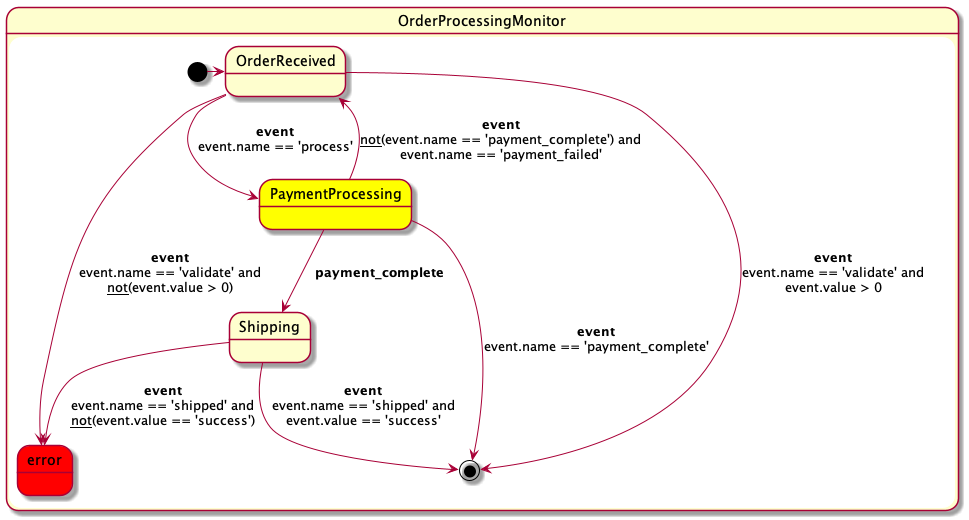
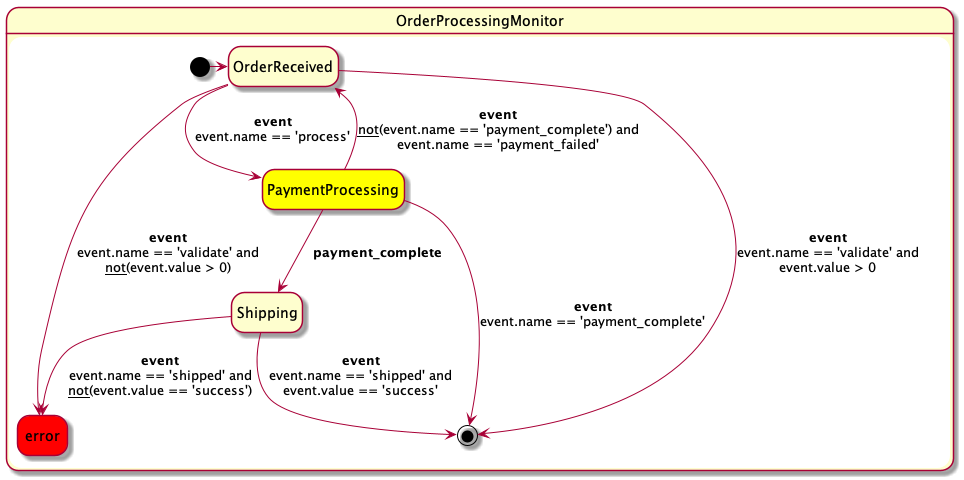
more visualization

diff --git a/pycontract/pycontract_plantuml.py b/pycontract/pycontract_plantuml.py
@@ -357,6 +357,7 @@ class AstStateKind(Enum):
     ERROR = 7
     FORK = 8  # Used for AndState
     OR_FORK = 9  # Used for OrState
+    NOT_STATE = 10  # Used for NotState
 
 
 class AstState:
@@ -381,10 +382,7 @@ class AstState:
             result += f'  [*] -> {self.name}\n'
         
         # Basic state definition
-        if self.kind == AstStateKind.NEXT or self.kind == AstStateKind.HOTNEXT or self.kind == AstStateKind.ALWAYSNEXT:
-            result += f'  state "{self.name} **next**" as {self.name}'
-        else:
-            result += f'  state {self.name}'
+        result += f'  state {self.name}'
         
         # Add styling
         if self.kind == AstStateKind.HOT or self.kind == AstStateKind.HOTNEXT:
@@ -400,6 +398,11 @@ class AstState:
             # Use standard UML choice symbol for OrState
             result += ' <<choice>>'
             # No color specified to keep it default (likely black)
+        if self.kind == AstStateKind.NOT_STATE:
+            # Use a simple circle for NotState
+            result += ' <<circle>>'
+            # Use black background
+            result += ' #black'
         
         # Add parameters
         if self.parameters:
@@ -498,14 +501,23 @@ class AstMonitor:
         self.transitions: List[AstTransition] = []
 
     def __str__(self):
+        # Default diagram generation
         result = '@startuml\n'
         # result += '!theme plain\n'
+        
+        # Add directives to improve the appearance of states
+        result += 'hide empty description\n'  # Remove horizontal lines in states
+        
         result += f'state {self.name}' + '{\n'
+        
+        # Track states we've already added to avoid duplicates
+        added_states = set()
         
         # Define error state once at the beginning if needed
         has_error_transitions = any(t.target == 'error' for t in self.transitions)
         if has_error_transitions:
             result += '  state error #red\n'
+            added_states.add('error')
         
         # Add super class notes
         other_super_classes = [clazz for clazz in self.super_classes if clazz != 'Monitor']
@@ -520,9 +532,14 @@ class AstMonitor:
             result += f'   {self.key}\n'
             result += '  end note\n'
             
-        # Add all states
+        # Add all states, avoiding duplicates
         for state in self.states:
-            result += f'{state}\n'
+            if isinstance(state, str):
+                # Handle raw string states (like our NOT symbol)
+                result += state
+            elif state.name not in added_states:
+                result += f'{state}\n'
+                added_states.add(state.name)
             
         # Add all transitions
         for transition in self.transitions:
@@ -761,6 +778,38 @@ class Analyzer(ast.NodeVisitor):
                 self.current_monitor.transitions.append(or_to_small)
                 self.current_monitor.transitions.append(or_to_large)
                 
+            # Special handling for NotState visualization
+            if self.current_monitor and self.current_monitor.name == 'NotStateMonitor':
+                # For NotStateMonitor, completely replace ALL transitions and states
+                # This ensures we don't have any unwanted transitions or duplicate error states
+                
+                # Clear existing states and transitions
+                self.current_monitor.states = []
+                self.current_monitor.transitions = []
+                
+                # Add states with proper styling
+                self.current_monitor.states.append(AstState('error', False, AstStateKind.ERROR, None))
+                self.current_monitor.states.append(AstState('Start', True, AstStateKind.NEXT, None))
+                self.current_monitor.states.append(AstState('Inner', False, AstStateKind.NEXT, None))
+                
+                # Add NOT state with black circle
+                not_state = AstState('NOT', False, AstStateKind.NOT_STATE, None)
+                self.current_monitor.states.append(not_state)
+                
+                # Add transitions
+                # Start to NOT when event.name == 'check'
+                self.current_monitor.transitions.append(AstTransition('Start', 'event', ['event.name == \'check\''], 'NOT', []))
+                # Start to final state for other events
+                self.current_monitor.transitions.append(AstTransition('Start', 'event', ['__not__(event.name == \'check\')'], '[*]', []))
+                # NOT to Inner (NotState wraps Inner)
+                self.current_monitor.transitions.append(AstTransition('NOT', None, None, 'Inner', []))
+                # Inner to ok state when event.name == 'succeed' (as per Inner's code)
+                self.current_monitor.transitions.append(AstTransition('Inner', 'event', ['event.name == \'succeed\''], '[*]', []))
+                # Inner to error state when event.name == 'fail' (as per Inner's code)
+                self.current_monitor.transitions.append(AstTransition('Inner', 'event', ['event.name == \'fail\''], 'error', []))
+                
+                # No need to clear states and transitions since we're using them directly
+            
             # Special handling for AndState visualization
             if self.current_monitor and self.current_monitor.name == 'AndStateMonitor':
                 # For AndStateMonitor, completely replace ALL transitions

diff --git a/test/test36_aliased_import/test36.py b/test/test36_aliased_import/test36.py
@@ -148,6 +148,24 @@ class AndStateMonitor(pc.Monitor):
                 return pc.ok
             return None
 
+# Monitor with NotState example
+class NotStateMonitor(pc.Monitor):
+    @pc.initial
+    class Start(pc.State):
+        def transition(self, event):
+            if event.name == 'check':
+                # Create a NotState that negates the Inner state
+                return pc.NotState(self.Inner())
+            return pc.ok
+
+    class Inner(pc.State):
+        def transition(self, event):
+            if event.name == 'succeed':
+                return pc.ok
+            elif event.name == 'fail':
+                return pc.error("Inner state failed as expected")
+            return None
+
 class Test36(unittest.TestCase):
     def setUp(self):
         # Reset the monitor state before each test
@@ -258,3 +276,27 @@ class Test36(unittest.TestCase):
             mon.eval(event)
         mon.end()
         self.assertFalse(mon.errors_found(), "Monitor should have no errors")
+
+    def test_not_state_monitor(self):
+        """Tests a monitor with NotState negation."""
+        # Scenario 1: Inner state fails, so NotState succeeds
+        mon = NotStateMonitor()
+        trace = [
+            Event('check'),
+            Event('fail')
+        ]
+        for event in trace:
+            mon.eval(event)
+        mon.end()
+        self.assertFalse(mon.errors_found(), "NotState should succeed when inner state fails")
+        
+        # Scenario 2: Inner state succeeds, so NotState fails
+        mon = NotStateMonitor()
+        trace = [
+            Event('check'),
+            Event('succeed')
+        ]
+        for event in trace:
+            mon.eval(event)
+        mon.end()
+        self.assertTrue(mon.errors_found(), "NotState should fail when inner state succeeds")
